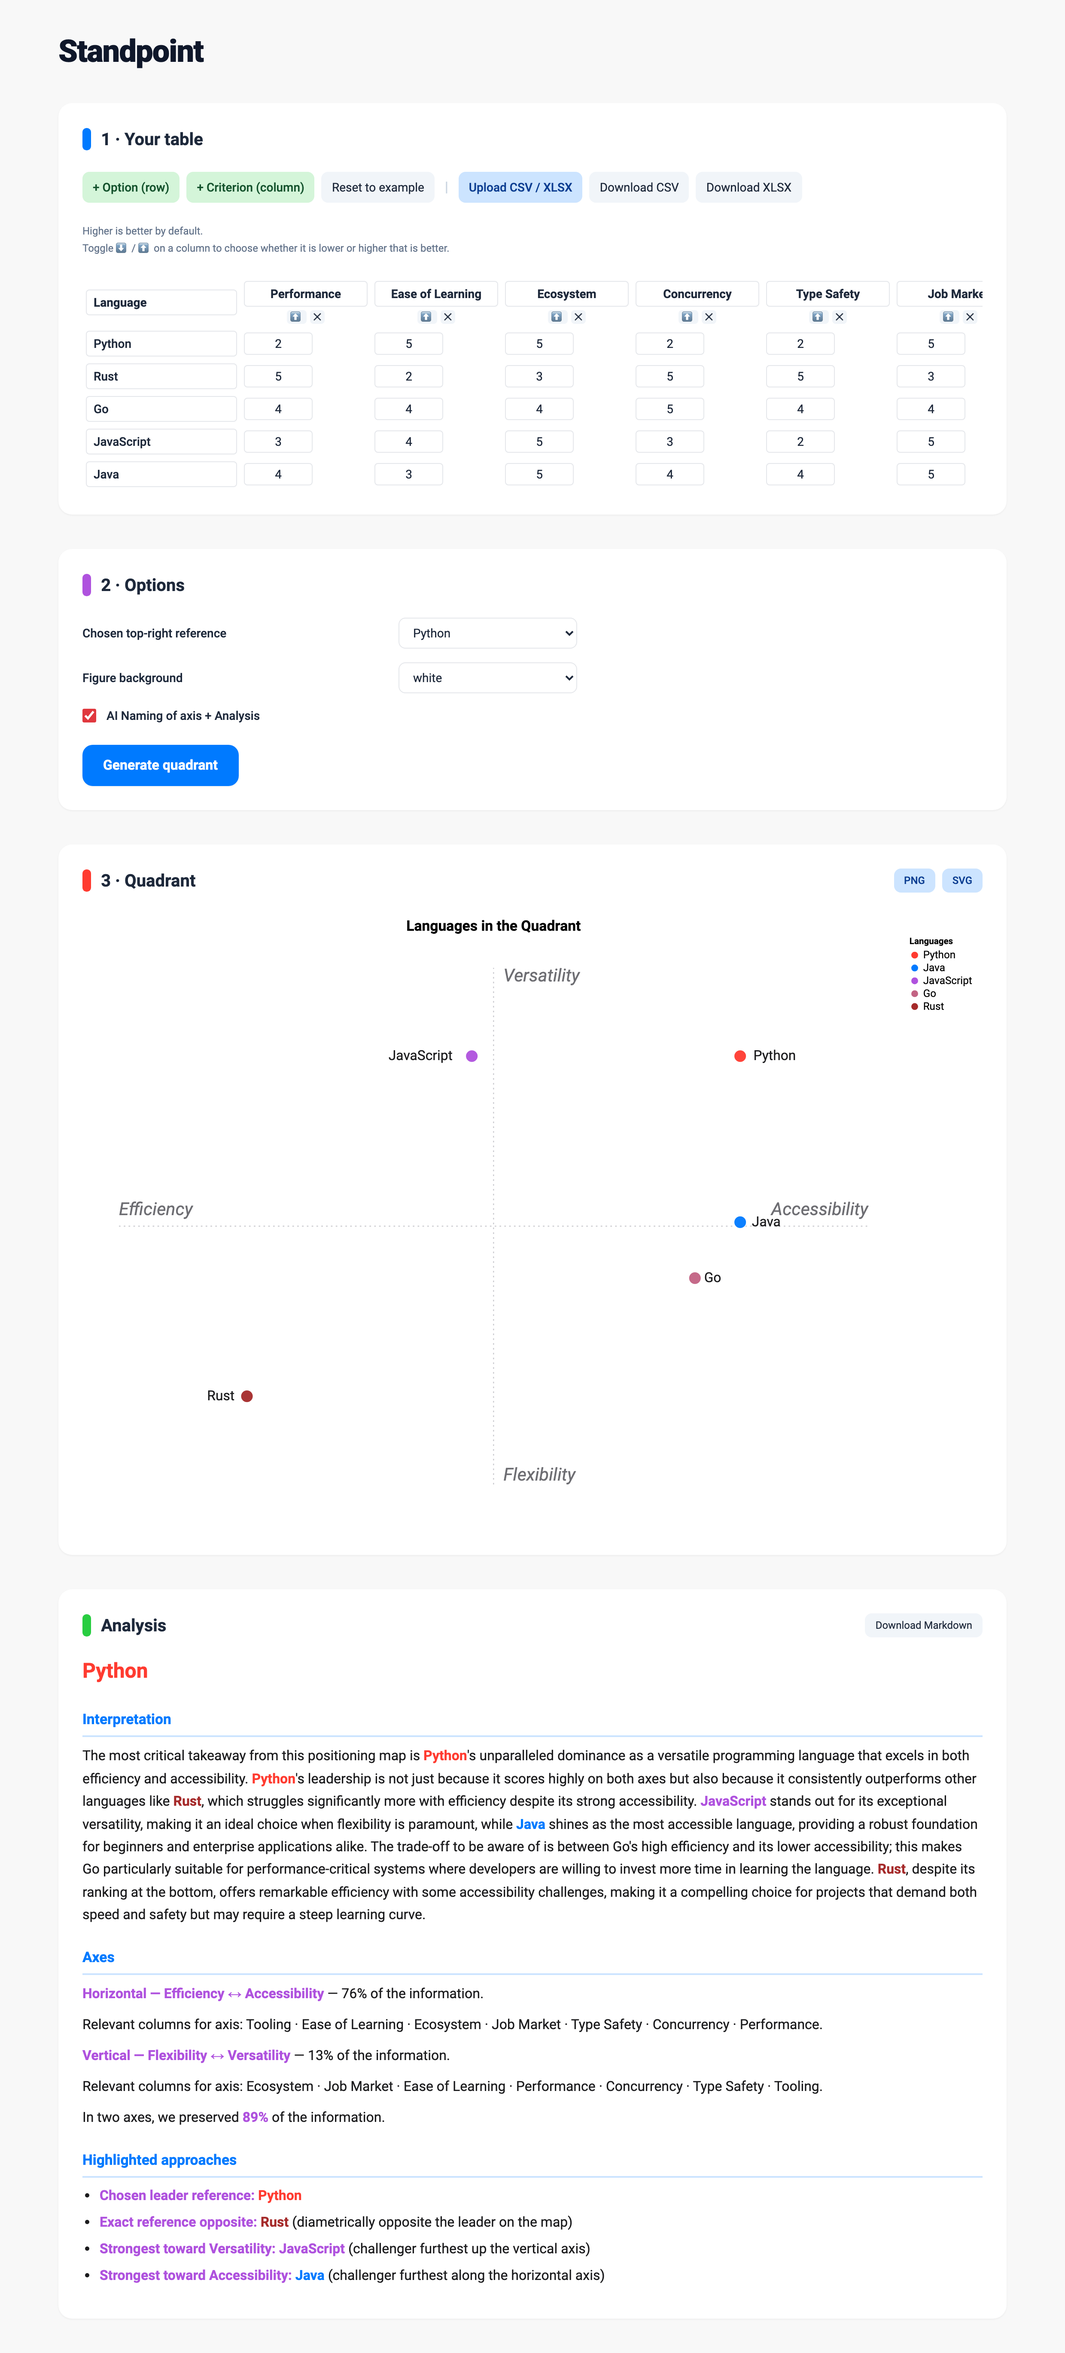
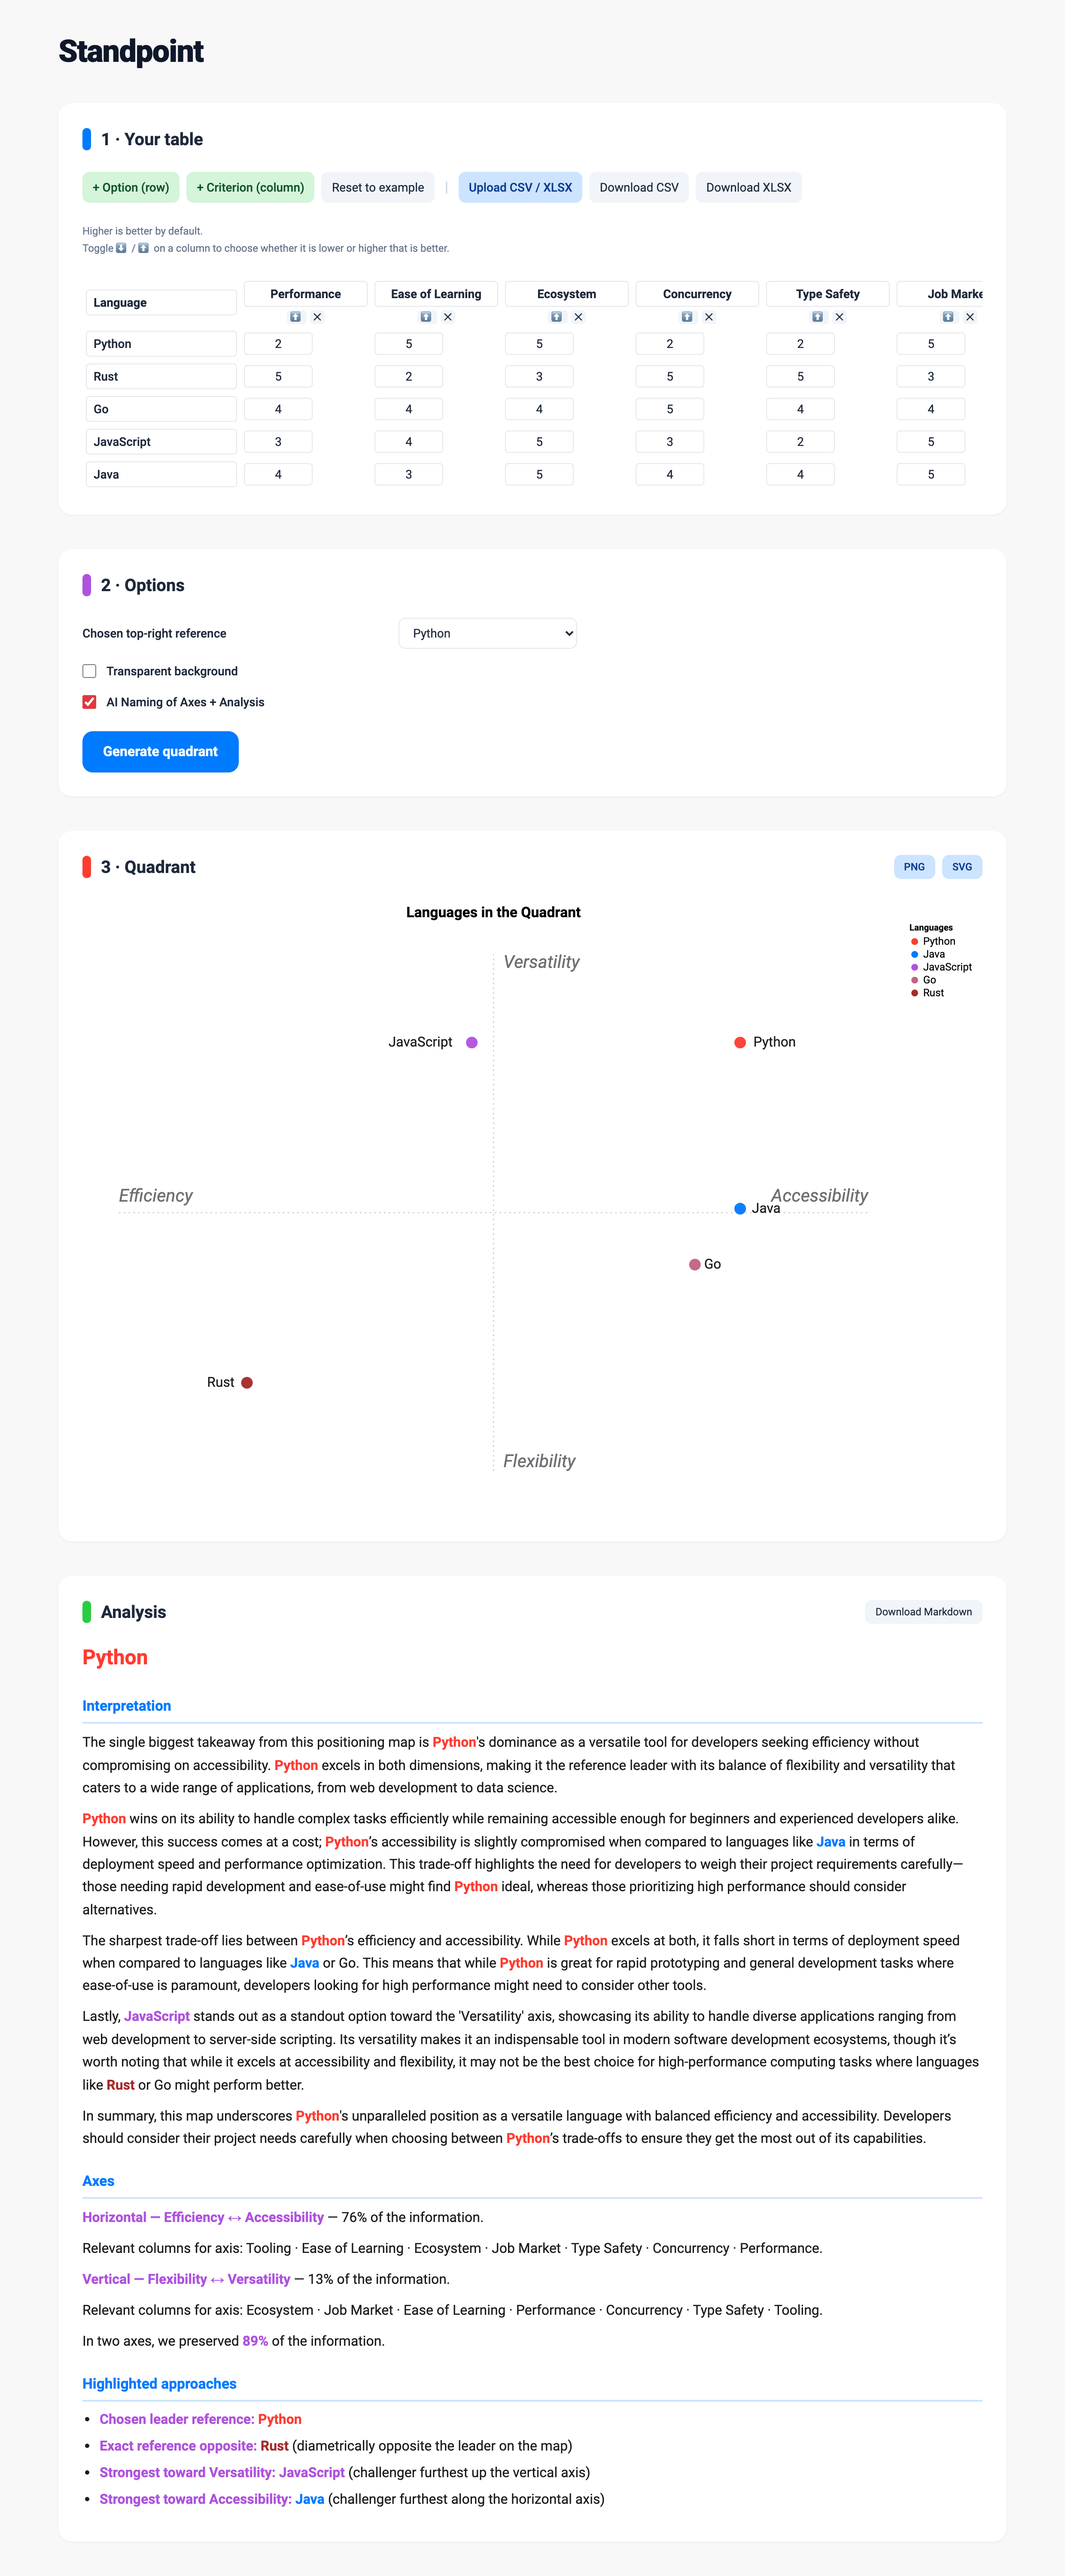
dev-gui: transparent-background checkbox; 'AI Naming of Axes + Analysis'
- Replace the 'Figure background' dropdown with a 'Transparent background' checkbox
  (checked = transparent, unchecked = white).
- Fix the LLM-toggle label wording (Axes, capitalized).
- Refresh the GUI screenshot (Ralph image loop, LLM path).

diff --git a/standpoint/webgui.py b/standpoint/webgui.py
@@ -120,17 +120,14 @@ GUI_HTML = r"""<!doctype html>
           <select id="reference" class="border rounded-lg px-3 py-2 min-w-[13rem]"></select>
         </label>
 
-        <label class="flex items-center justify-between gap-4 text-sm">
-          <span class="font-medium">Figure background</span>
-          <select id="bg" class="border rounded-lg px-3 py-2 min-w-[13rem]">
-            <option value="transparent">transparent</option>
-            <option value="white" selected>white</option>
-          </select>
+        <label class="flex items-center gap-3 text-sm">
+          <input type="checkbox" id="bgTransparent" class="w-4 h-4" />
+          <span class="font-medium">Transparent background</span>
         </label>
 
         <label class="flex items-center gap-3 text-sm">
           <input type="checkbox" id="useLlm" class="w-4 h-4" />
-          <span class="font-medium">AI Naming of axis + Analysis</span>
+          <span class="font-medium">AI Naming of Axes + Analysis</span>
         </label>
       </div>
 
@@ -351,8 +348,9 @@ $("run").onclick = async () => {
     const data = await res.json();
     // Render the quadrant. Background toggle applies to the preview only.
     const spec = data.vega;
-    spec.background = $("bg").value === "white" ? "white" : null;
-    $("chart").classList.toggle("checker", $("bg").value === "transparent");
+    const transparent = $("bgTransparent").checked;  // checked = transparent, else white
+    spec.background = transparent ? null : "white";
+    $("chart").classList.toggle("checker", transparent);
     $("chart").textContent = "";
     // No vega-embed "⋯" menu — the explicit PNG / SVG buttons replace it. SVG
     // renderer so the map stays crisp when CSS scales it to fit the card.
